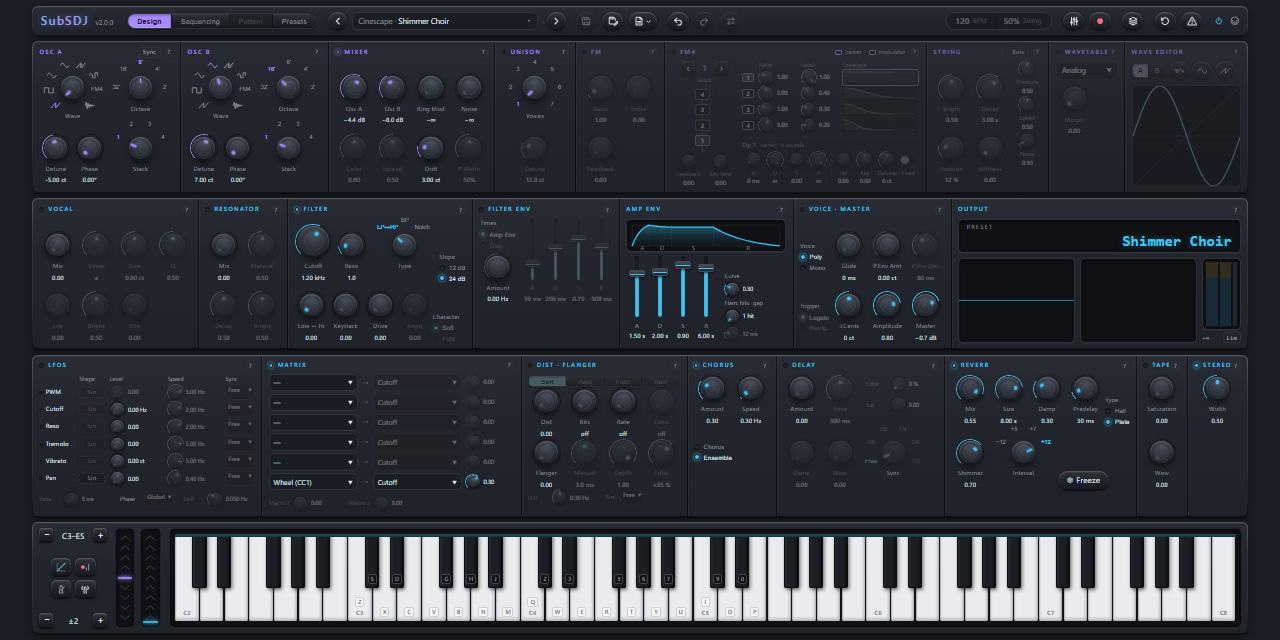
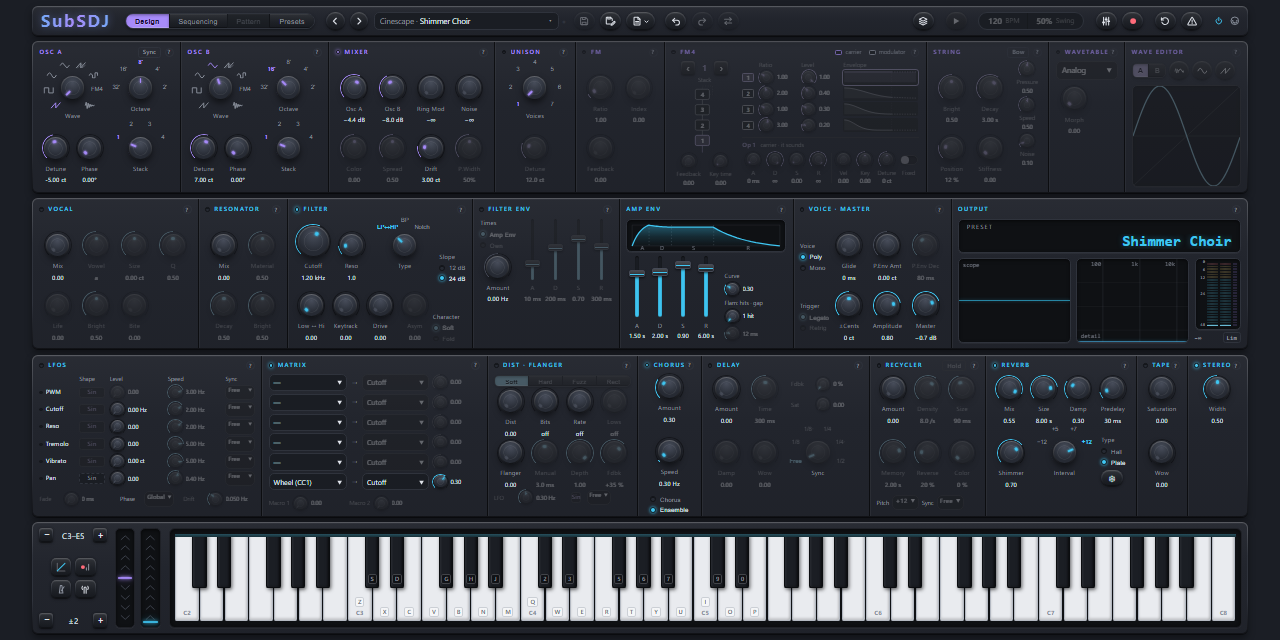
SubSDJ 2.1.0
Version and date, the CHANGELOG entry with its summary, the README up to date
(Rec loop, Play in the header, Recycler, the Pattern screen's block editing and
Follow, the scope and spectrum views, About) and the three screenshots redone.
Selftest 260/260 (checks 138/138 · factory 122/122).

diff --git a/js/version.js b/js/version.js
@@ -1,4 +1,4 @@
 // SubSDJ version: X.Y.Z (criteria in docs/DESIGN.md, «Versiones y publicación»).
 // It is shown next to the title, and the selftest requires it to be the first CHANGELOG entry.
-export const VERSION = '2.0.0';
-export const RELEASE = '2026-11-13';   // release date (the CHANGELOG one): shown by the welcome window
+export const VERSION = '2.1.0';
+export const RELEASE = '2026-11-20';   // release date (the CHANGELOG one): shown by the welcome window

diff --git a/README.md b/README.md
@@ -36,12 +36,24 @@ steps, effects, parts and generative music.
   sequencer, the looping envelope, Steps, parts and scenes), **Pattern** (the loop
   of your own notes that a part repeats — with Parts on) and **Presets** (the
   library).
-- **Pattern**: with Parts on, **● Rec** in the Player module (or on the Pattern
-  screen) arms a take that starts with your first key; ● again closes the loop.
-  On the Pattern screen, drag the notes to fix them, double-click to add or delete,
-  `Ctrl` + wheel to zoom. **From pattern** in Harmony reads the key from the loop so
-  the other players follow it, and **★ Save** in Arrangement keeps the scene in the
-  Library.
+- **Pattern**: with Parts on, **Rec loop** in the Player module (or on the Pattern
+  screen) arms a take that starts with your first key; pressing it again closes the
+  loop. On the Pattern screen, drag the notes to fix them, double-click to add or
+  delete, `Ctrl` + wheel to zoom; a rubber band selects several notes to move, copy
+  (`Alt` + drag, `Ctrl+D`, `Ctrl+C` / `Ctrl+V` between parts) or transpose with the
+  arrows, and **×2** and **Rotate** work on the whole loop. **Follow** makes a loop
+  recorded over one chord walk the whole progression. **From pattern** in Harmony
+  reads the key from the loop so the other players follow it, and **★ Save** in
+  Arrangement keeps the scene in the Library.
+- **▶ Play**, beside the tempo, starts and stops the players of the parts from any
+  screen.
+- **Recycler** (in the Room, with the delay and the reverb): an accompaniment made
+  of grains cut from the last seconds you played — at another pitch, backwards,
+  scattered in stereo or on the tempo grid. **Hold** keeps them hanging after you
+  let go.
+- A click on the **oscilloscope** switches between the running wave and one single
+  cycle; a click on the **spectrum** cycles its three views (detail, smooth, polar).
+  And the little screen of **About** (click on the name) moves with what is sounding.
 - The **preset picker** in the header searches (ignoring accents and case) and
   filters by category; a click or `↑` `↓` loads to audition, `Enter` picks and
   closes, and **Browse all** opens the Presets screen.
@@ -74,7 +86,7 @@ and the checks are in [docs/BANK.md](docs/BANK.md). The bank up to 1.4.0 lives i
 Eight **scenes** (Presets screen) show the synth accompanying you: Night Ambient,
 Dorian Dawn, Hypnotic Techno, Robot Choir, Berlin School, Dub Session, 909 Kit and
 Deep Space. All but the kit reserve a part for you, with a lead loaded and its player
-off: load the scene, press ▶ Play in Harmony and play along.
+off: load the scene, press ▶ Play in the header and play along.
 
 ## Your presets
 

diff --git a/CHANGELOG.md b/CHANGELOG.md
@@ -6,7 +6,16 @@ features, **X** = something saved stops loading or sounding the same (presets,
 scenes, libraries, MIDI maps). The why behind each module is in
 [docs/DESIGN.md](docs/DESIGN.md), the development notebook.
 
-## Unreleased
+## [2.1.0] — 2026-11-20
+
+A release of things to **play with and to look at**. The **Recycler**, a new module in the Room, makes an
+accompaniment out of pieces of what you just played. The Pattern screen learns to work on several notes
+at once — select, move, copy, paste between parts, double the loop, rotate it — and a loop can **follow
+the harmony** instead of being recorded again for every chord. Harmony gets well-known progressions and a
+strip that shows where it is; there is one Play, in the header; parts can be renamed. And the pictures
+of the sound are new: an oscilloscope that can show a single cycle, a spectrum drawn as a curve in three
+views, an LED meter, and an «About» screen that moves with the music. Nothing saved stops loading or
+sounding the same.
 
 - **«About» listens.** With the instrument sounding — a scene, a pattern, a held chord — the little
   screen of the «About» window moves with it, as the old player visualizers did: the lows drive the
